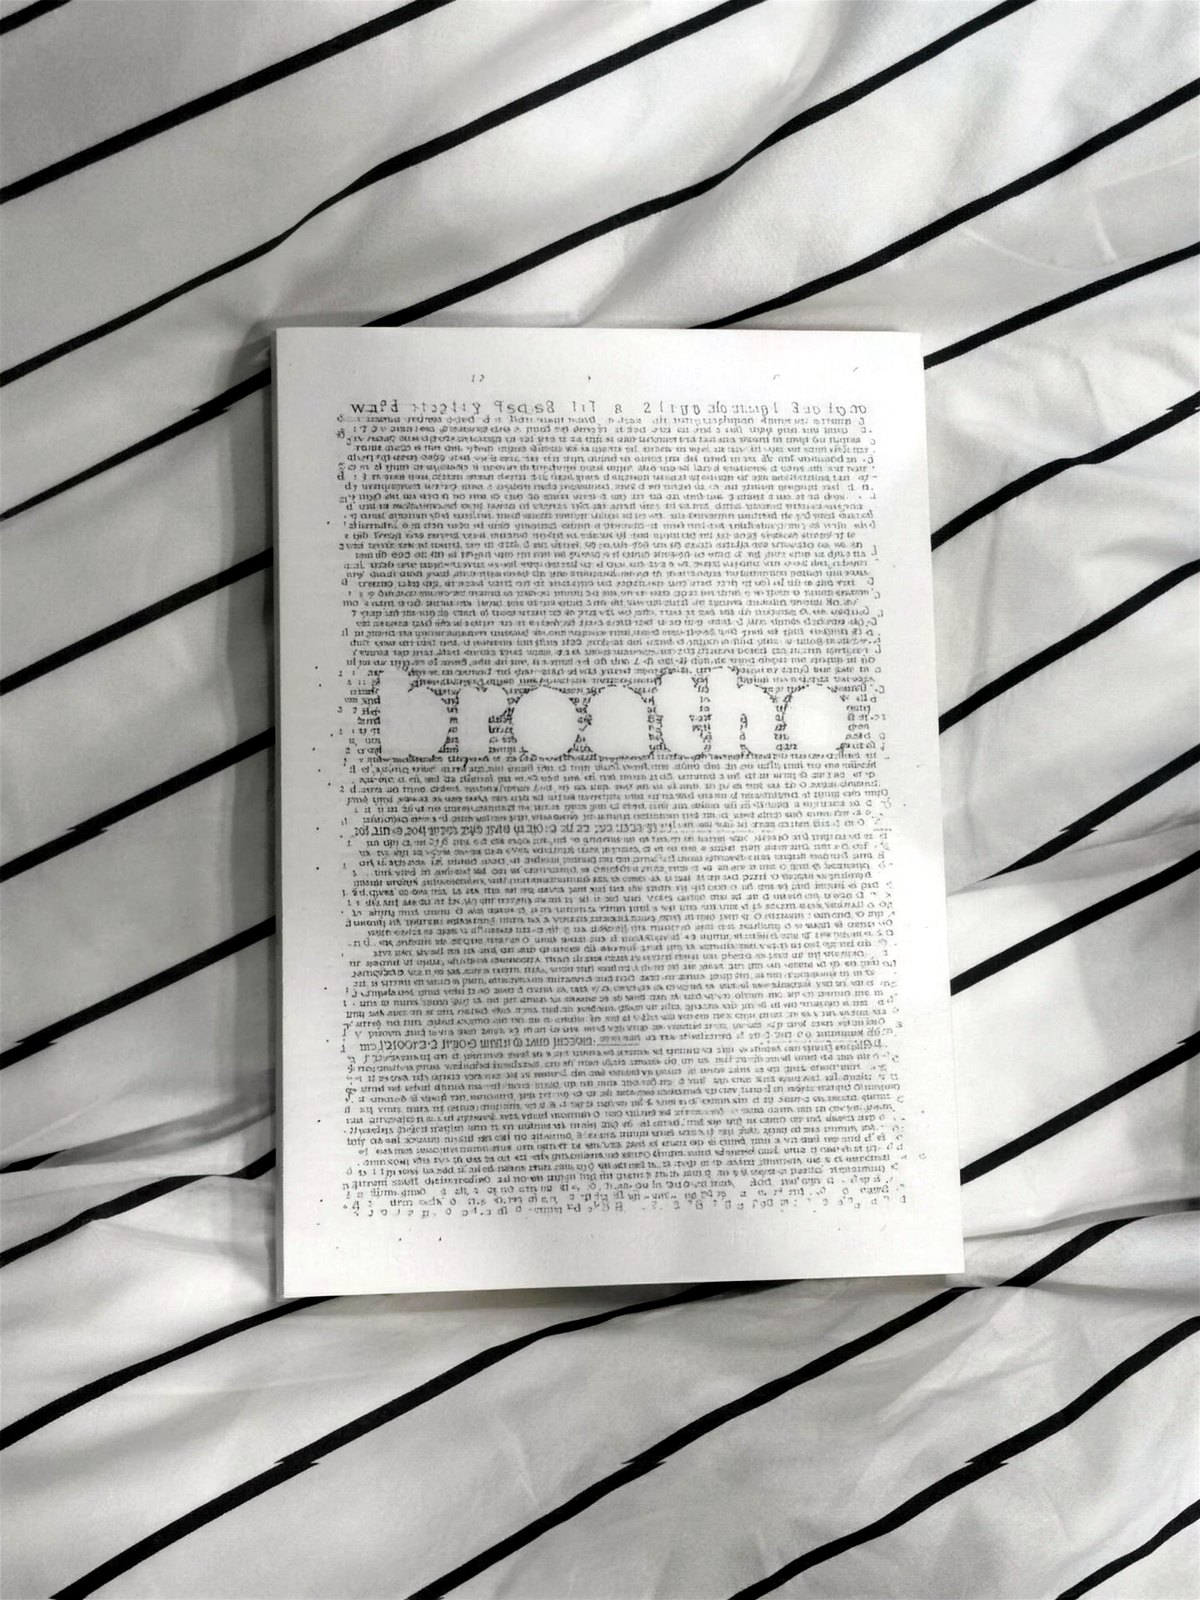
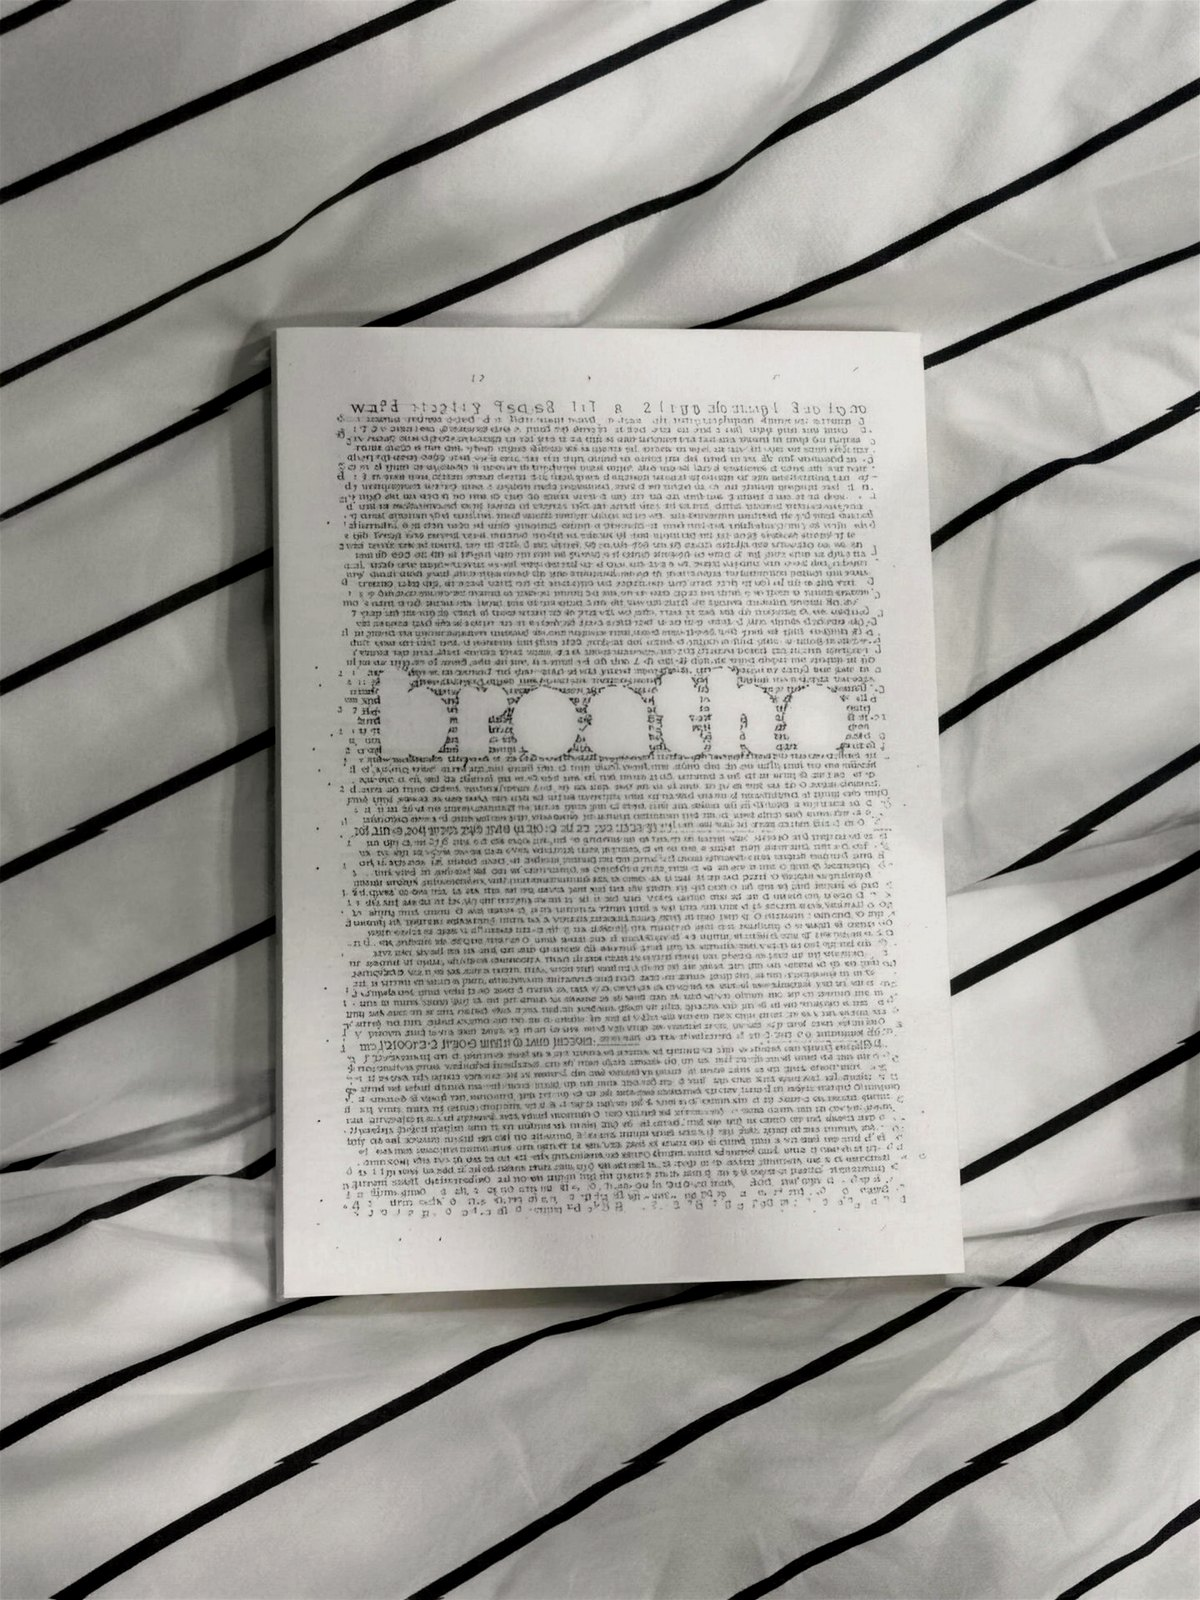
fix(shop): unify photo tone/brightness, drop calendar shot from diary
- Apply one grading target across the whole set (neutral white balance,
  common brightness, shared warmth) so the photos read as one system
- Remove the 2027 Calendar shot that had slipped into the diary's
  "A look inside" — now Monthly / Weekly / How to use (all diary interior)
- Drop the teal-tinted cover-engraving macro from the hero (redundant with
  the warmer cover-detail cut); hero is 6 product cuts

diff --git a/src/data/products/breathe.ts b/src/data/products/breathe.ts
@@ -15,7 +15,6 @@ import relatedCalendar from '@/assets/shop/breathe/related-calendar.png'
 const P = '/images/breathe/'
 // Hero — product-forward rotation (cover, engraving, plant still-life, set).
 const hCoverFront = `${P}hero_cover_front.jpg`
-const hCoverMacro = `${P}hero_cover_macro.jpg`
 const hTitle = `${P}hero_title.jpg`
 const hPlant1 = `${P}hero_plant1.jpg`
 const hPlant2 = `${P}hero_plant2.jpg`
@@ -24,7 +23,7 @@ const hCoverDetail = `${P}hero_cover_detail.jpg`
 // A look inside — real interior pages (속지), full-page framing.
 const soziMonthly = `${P}sozi_monthly.jpg`
 const soziHowto = `${P}sozi_howto.jpg`
-const soziYearly = `${P}sozi_yearly.jpg`
+const soziWeekly = `${P}sozi_weekly.jpg`
 // In use — model + interior close-ups (lower on the page).
 const mGrey = `${P}look5_C26DF7F5.jpg`
 const mFace = `${P}face_643B6376.jpg`
@@ -43,7 +42,7 @@ export const breathe: Record<Locale, ShopProduct> = {
       { id: 'set6', label: '6권 세트', packSize: 6, price: 96000 },
     ],
     hero: {
-      gallery: [hCoverFront, hCoverMacro, hTitle, hPlant1, hSet, hPlant2, hCoverDetail],
+      gallery: [hCoverFront, hTitle, hPlant1, hSet, hPlant2, hCoverDetail],
       title: 'Breathe',
       subtitle: 'Planner & Diary — 신앙과 일상을 함께 기록하는 플래너',
       price: '₩19,000',
@@ -64,8 +63,8 @@ export const breathe: Record<Locale, ShopProduct> = {
       title: 'A look inside',
       items: [
         { caption: 'Monthly', image: soziMonthly },
+        { caption: 'Weekly', image: soziWeekly },
         { caption: 'How to use', image: soziHowto },
-        { caption: 'Yearly', image: soziYearly },
       ],
     },
     lookbook: {
@@ -201,7 +200,7 @@ export const breathe: Record<Locale, ShopProduct> = {
       { id: 'set6', label: '6-pack', packSize: 6, price: 66 },
     ],
     hero: {
-      gallery: [hCoverFront, hCoverMacro, hTitle, hPlant1, hSet, hPlant2, hCoverDetail],
+      gallery: [hCoverFront, hTitle, hPlant1, hSet, hPlant2, hCoverDetail],
       title: 'Breathe',
       subtitle: 'Planner & Diary — a planner for recording faith and daily life together',
       price: '$14',
@@ -222,8 +221,8 @@ export const breathe: Record<Locale, ShopProduct> = {
       title: 'A look inside',
       items: [
         { caption: 'Monthly', image: soziMonthly },
+        { caption: 'Weekly', image: soziWeekly },
         { caption: 'How to use', image: soziHowto },
-        { caption: 'Yearly', image: soziYearly },
       ],
     },
     lookbook: {
@@ -362,7 +361,7 @@ export const breathe: Record<Locale, ShopProduct> = {
       { id: 'set6', label: '6冊セット', packSize: 6, price: 10800 },
     ],
     hero: {
-      gallery: [hCoverFront, hCoverMacro, hTitle, hPlant1, hSet, hPlant2, hCoverDetail],
+      gallery: [hCoverFront, hTitle, hPlant1, hSet, hPlant2, hCoverDetail],
       title: 'Breathe',
       subtitle: 'Planner & Diary — 信仰と日常をともに記録するプランナー',
       price: '¥2,200',
@@ -383,8 +382,8 @@ export const breathe: Record<Locale, ShopProduct> = {
       title: 'A look inside',
       items: [
         { caption: 'Monthly', image: soziMonthly },
+        { caption: 'Weekly', image: soziWeekly },
         { caption: 'How to use', image: soziHowto },
-        { caption: 'Yearly', image: soziYearly },
       ],
     },
     lookbook: {
